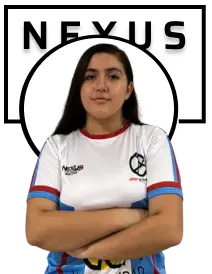
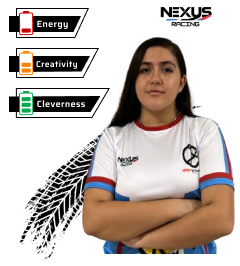
cards change

diff --git a/src/Components/Team.jsx b/src/Components/Team.jsx
@@ -49,10 +49,10 @@ const Team = () => {
     >
       <div className="glide-03 relative w-[59em]">
         <div className="overflow-hidden" data-glide-el="track">
-          <div className="whitespace-no-wrap flex-no-wrap relative flex items-center justify-evenly overflow-hidden p-0 z-40">
+          <div className="whitespace-no-wrap flex-no-wrap relative flex justify-evenly overflow-hidden p-0 z-40">
             {users.map(({ id, name, lastName, img, roles, socialMedia }) => (
               <div
-                className="flex flex-col h-[25em] !w-[18em] bg-black px-3 py-4 rounded-lg"
+                className="flex flex-col h-[28em] !w-[18em] bg-black px-3 py-4 rounded-lg"
                 key={id}
               >
                 <div className="flex justify-between items-center h-full mx-2">
@@ -60,7 +60,7 @@ const Team = () => {
                     src={Logo_F1inSchoolcr}
                     alt="F1 IN SCHOOLS Costa Rica"
                     loading="lazy"
-                  />
+                  />  
                   <img
                     src={Logo_NexusWhite}
                     alt="Formula 1 in school Nexus Car Nexus Racing Team Formula 1 competition F1 in School Costa rica Team Silverstone circuit"
@@ -71,7 +71,7 @@ const Team = () => {
                 <div className="flex flex-col items-center justify-center gap-2 my-4">
                   <img
                     src={img}
-                    className="h-[9em]"
+                    className="h-[13em]"
                     alt={lastName}
                     loading="lazy"
                   />
